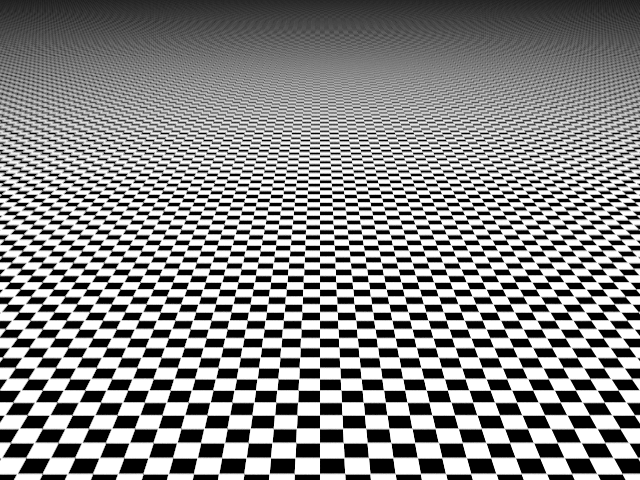
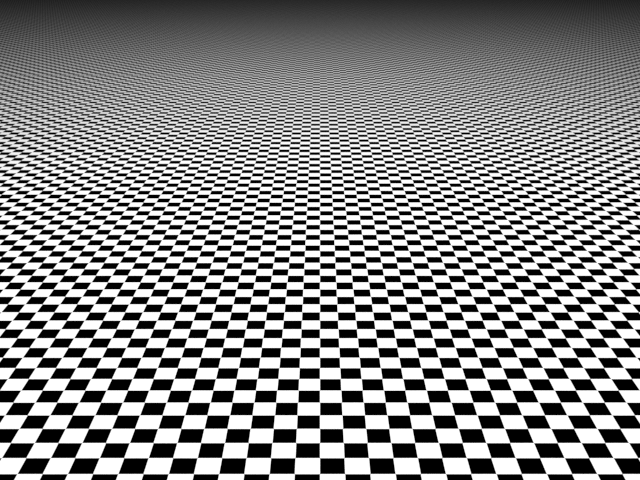
Fix tent filter default parameter

diff --git a/src/parse_scene.cpp b/src/parse_scene.cpp
@@ -335,7 +335,7 @@ parse_film(pugi::xml_node node) {
                 }
                 filter = Box{filter_width};
             } else if (filter_type == "tent") {
-                Real filter_width = Real(1);
+                Real filter_width = Real(2);
                 for (auto grand_child : child.children()) {
                     if (std::string(grand_child.attribute("name").value()) == "width") {
                         filter_width = std::stof(grand_child.attribute("value").value());
